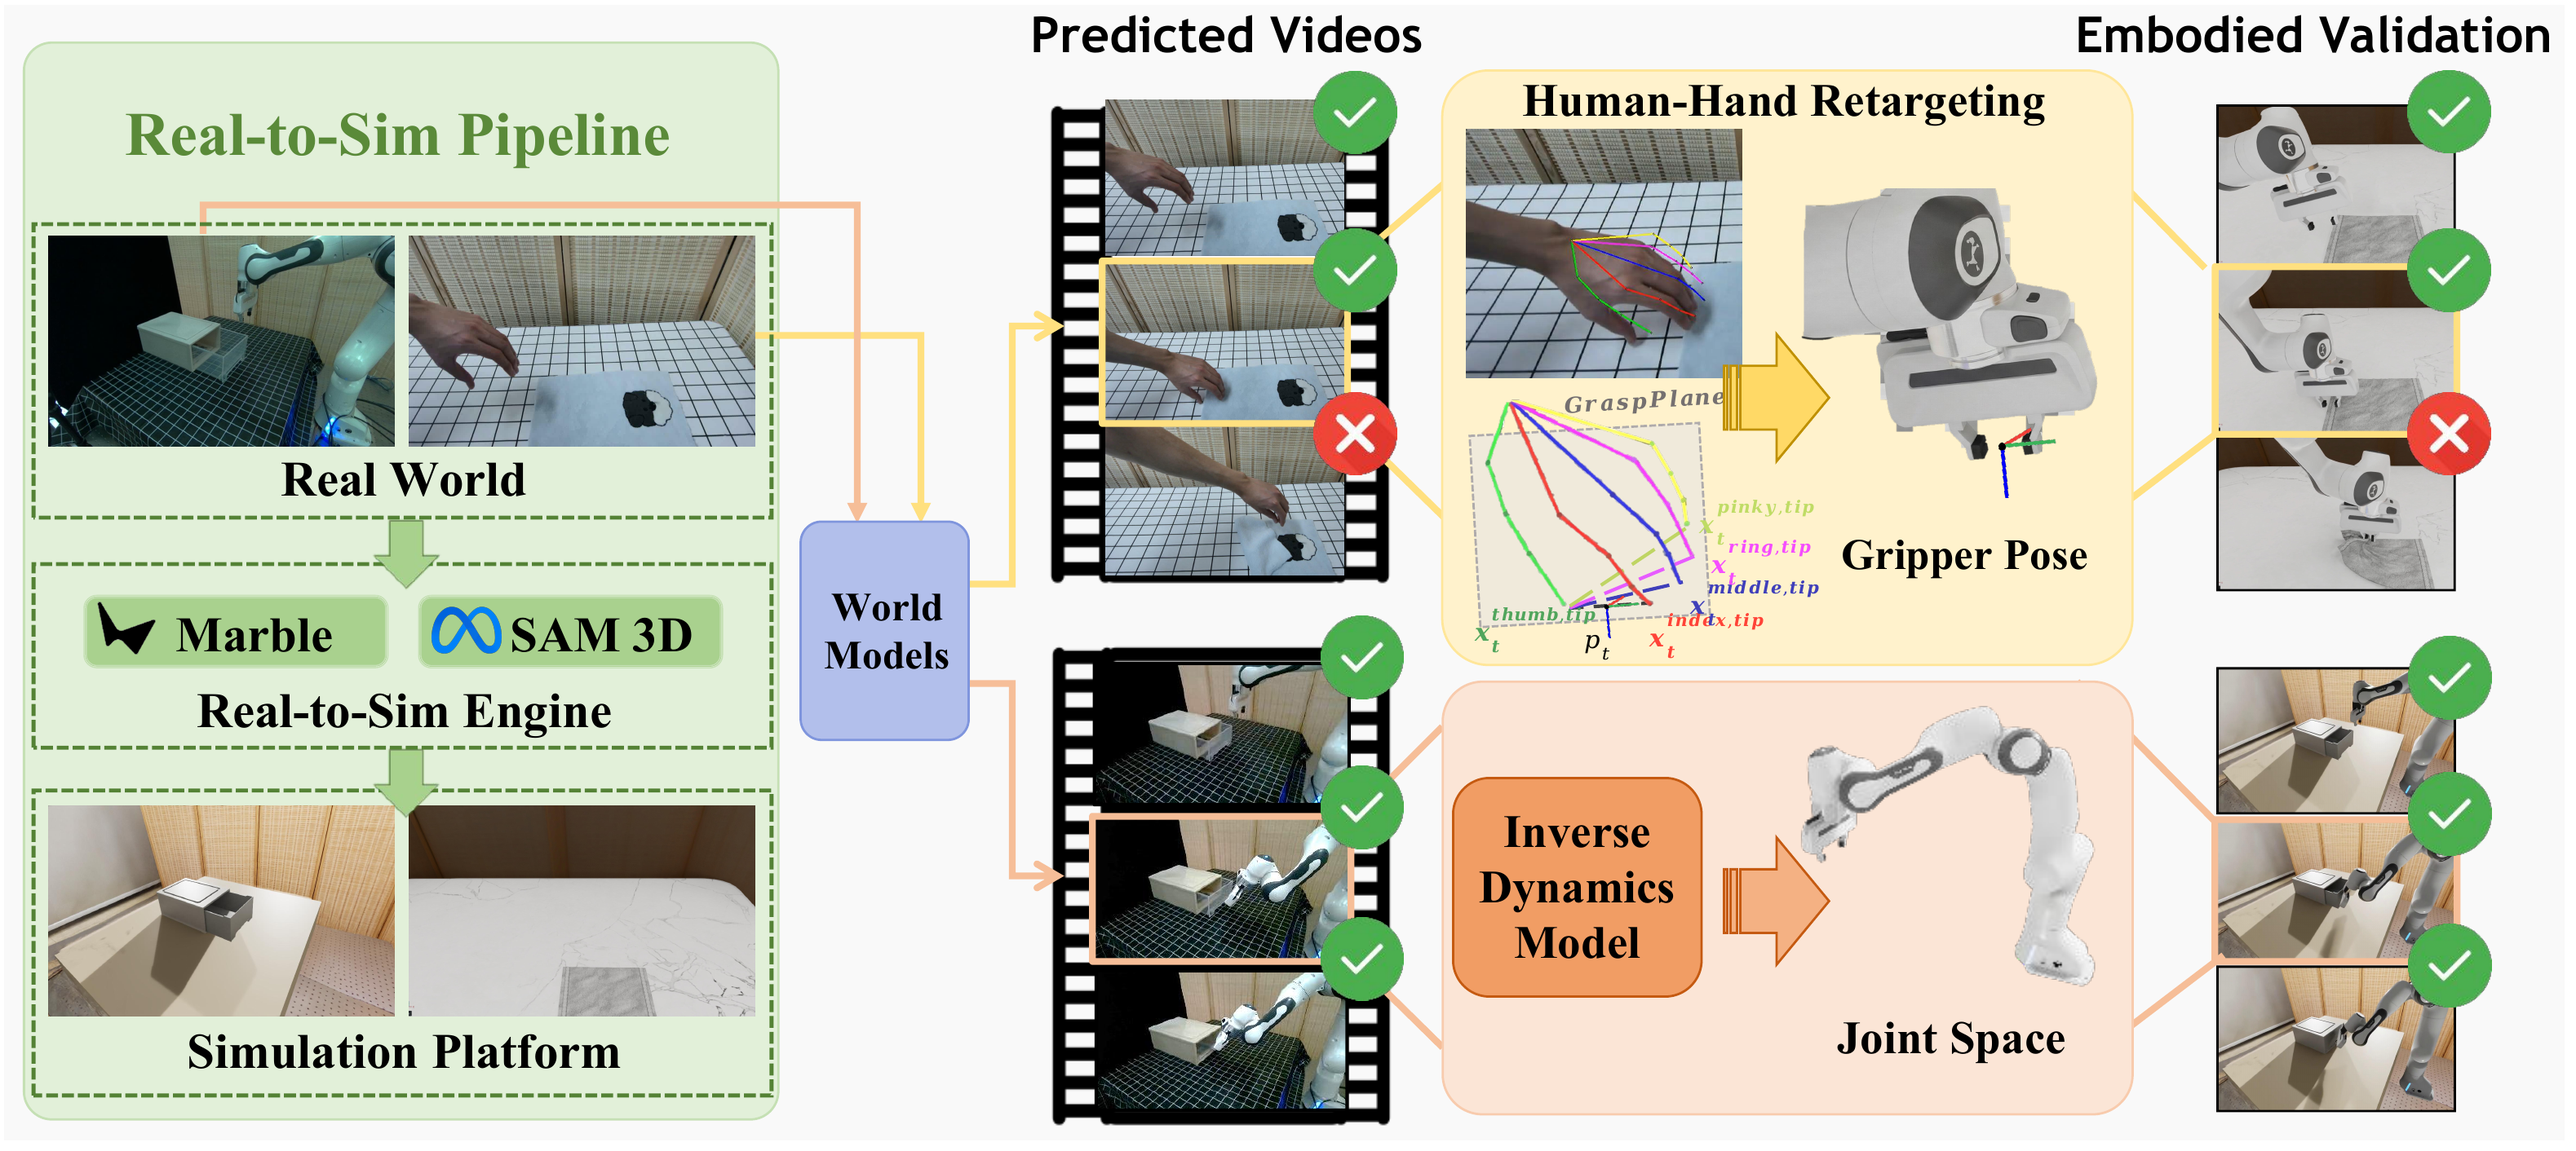
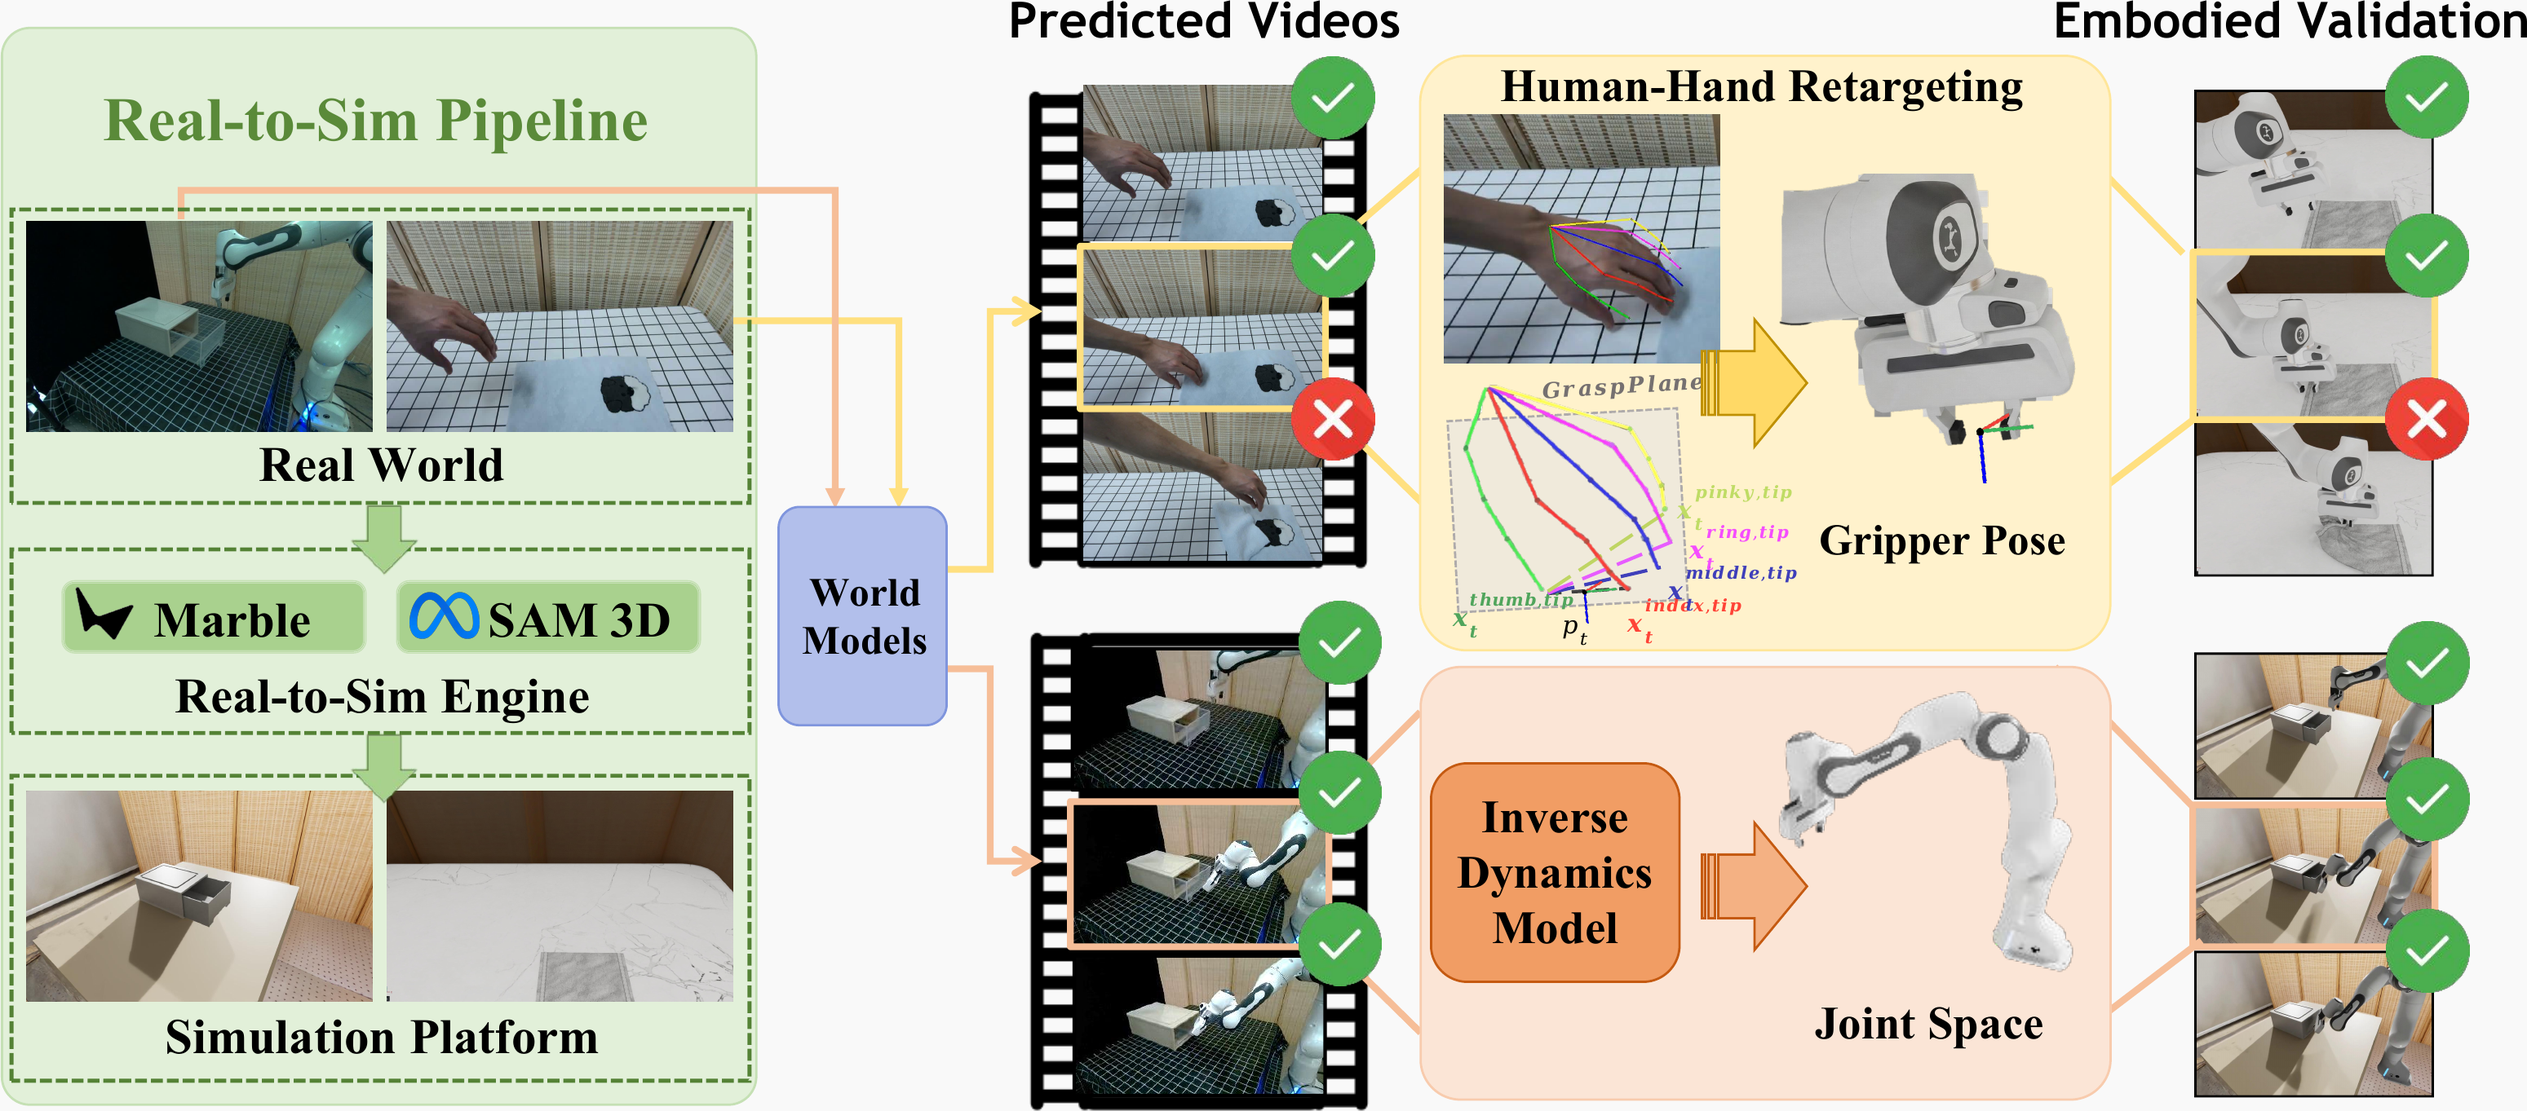
Wider figure layout, trim PNG margins, lighter shadow

diff --git a/index.html b/index.html
@@ -323,12 +323,12 @@
 <!-- End teaser video -->
 
 <!-- Overview -->
-<section class="hero is-small is-light">
+<section class="hero is-small is-light paper-figures-section">
   <div class="hero-body">
-    <div class="container is-max-desktop">
+    <div class="container paper-figures-container">
       <h2 class="title is-3 has-text-centered">Overview</h2>
       <figure class="has-text-centered" style="margin: 0;">
-        <img class="paper-figure-img" src="static/images/teaser_overview.png" alt="Overview of RoboWM-Bench." width="1854" height="1492" loading="lazy" decoding="async">
+        <img class="paper-figure-img" src="static/images/teaser_overview.png" alt="Overview of RoboWM-Bench." width="1835" height="1478" loading="lazy" decoding="async">
       </figure>
       <h2 class="subtitle has-text-centered" style="margin-top: 1rem;">
         Overview of RoboWM-Bench. RoboWM-Bench is a manipulation-centric benchmark for evaluating video world models under embodied execution.
@@ -366,12 +366,12 @@
 
 
 <!-- Pipeline -->
-<section class="hero is-small">
+<section class="hero is-small paper-figures-section">
   <div class="hero-body">
-    <div class="container is-max-desktop">
+    <div class="container paper-figures-container">
       <h2 class="title is-3 has-text-centered">Pipeline</h2>
       <figure class="has-text-centered" style="margin: 0;">
-        <img class="paper-figure-img" src="static/images/pipeline_figure.png" alt="RoboWM-Bench evaluation pipeline." width="3158" height="1412" loading="lazy" decoding="async">
+        <img class="paper-figure-img" src="static/images/pipeline_figure.png" alt="RoboWM-Bench evaluation pipeline." width="3098" height="1363" loading="lazy" decoding="async">
       </figure>
     </div>
   </div>

diff --git a/static/css/index.css b/static/css/index.css
@@ -253,6 +253,12 @@ body {
   box-shadow: var(--shadow-lg);
 }
 
+/* Wider column for overview / pipeline (Bulma is-max-desktop caps ~960px) */
+.container.paper-figures-container {
+  max-width: min(96vw, 1520px);
+  width: 100%;
+}
+
 /* Full-width raster figures (exported from PDF) */
 .paper-figure-img {
   display: block;
@@ -261,7 +267,8 @@ body {
   height: auto;
   margin: 0 auto;
   border-radius: var(--border-radius-lg);
-  box-shadow: var(--shadow-md);
+  /* Light shadow only — heavy shadow reads as an extra “white frame” around content */
+  box-shadow: 0 2px 8px rgb(0 0 0 / 0.06);
 }
 
 .results-carousel {
